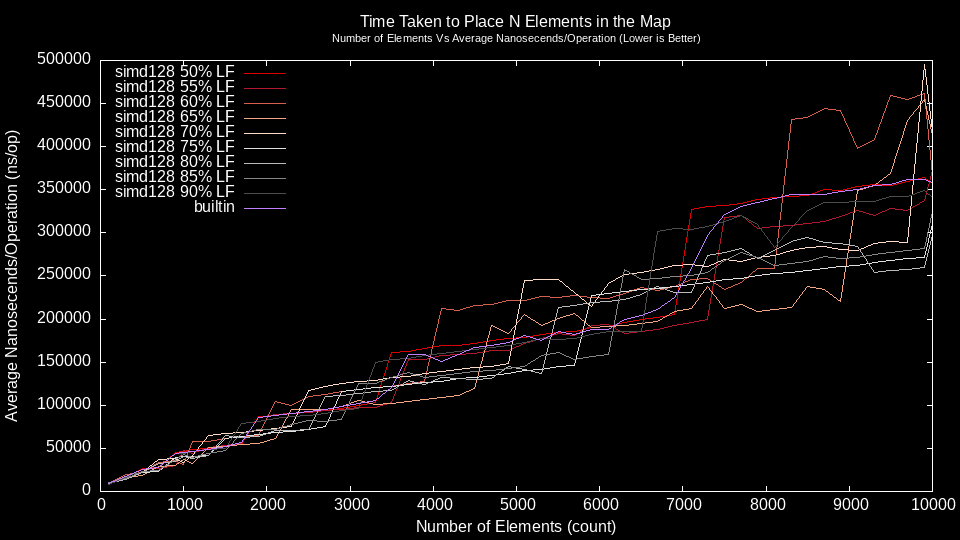
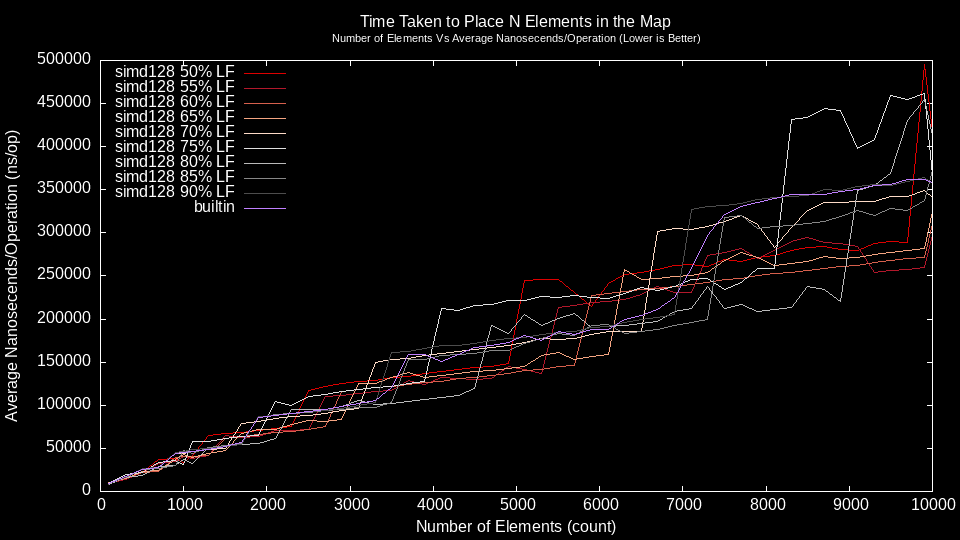
made some graph tweaks

diff --git a/README.md b/README.md
@@ -450,16 +450,26 @@ of the map defined in this package shows a slight performance increase over the
 builtin map. Up until now only the simd128 version of the map defined in this
 package has been shown in graphs. This was done to reduce clutter and because
 the simd128 version of the map actually performs the best, as shown in plot 3.
+The reason there is a jagged section is because data points within that region
+were collected every few hundred elements. After that region sampling dropped to
+follow powers of 10 to help reduce the time taken to gather the benchmark
+results.
 
 ![plot3](./img/numElementsVsNsPerOpAllTags.png)
 <sup>Plot 3: A plot showing the time taken to add N elements normalized
 against the time taken to add N elements to the builtin map across various
 simd tags.</sup>
 
-Plot 3 shows that simd128 performs the best, with simd256 having a slight edge
-to put it in second place and the default implementation with no SIMD is about
-as good as the simd512 version. This is due to the nature of how a swiss table
-works. The larger the SIMD register the larger the number of collisions at each
-stage of comparison. Yes, SIMD will allow more values to be compared at once
-but having more values also results in more collisions. These collisions have to
-be iterated over sequentially which results in slower performance.
+Plot 3 shows that
+1. simd128 performs the best.
+1. simd256 has a slight edge, especially towards the end of the graph, to put it
+in second place.
+1. the default implementation with no SIMD is about as good as the simd512
+version, if not better.
+
+The pattern of worse performance as the SIMD register size increases is due to
+the nature of how a swiss table works. The larger the SIMD register the larger
+the potential number of collisions at each stage of comparison. Yes, SIMD will
+allow more values to be compared at once but having more values also results in
+more collisions. These collisions have to be iterated over sequentially which
+results in slower performance.
